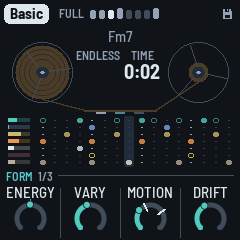
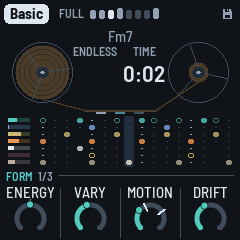
1.4.0: the tape's counter, the user's: its three lines evenly spaced (10 px each), the bars and time in M

Changed region(s): [[0.4958, 0.175, 0.7, 0.35], [0.2917, 0.175, 0.4958, 0.2625]]

diff --git a/firmware/src/app/ui.c b/firmware/src/app/ui.c
@@ -4279,20 +4279,21 @@ static void draw_tape(uint32_t now)
         const uint32_t b = en_bars / 16u;
         const int song = en_song_ph == EN_SG_INTRO || en_song_ph == EN_SG_MAIN || en_song_ph == EN_SG_OUTRO;
         const uint16_t tc = en_playing ? K_TEXT : K_DIM;
+        enum { TX_L = 95, TX_R = 144, TY_LBL = 20, TY_VAL = 39, TY_SUB = 65 };   /* (zzu, the user's: the three lines evenly spaced, the figures in M) */
         char t[12];
         if ((en_playing && !was) || (en_playing && b < last_b))
             t0 = now;                            /* (from PLAY; a Set's next piece, from its own start) */
         was = en_playing, last_b = b;
         if (en_playing)
             shown = (now - t0) / 1000u;
-        text_c(98, 24, &FONT_XS, song ? (en_song_ph == EN_SG_INTRO ? "INTRO" : en_song_ph == EN_SG_MAIN ? "MAIN" : "OUTRO")
+        text_c(TX_L, TY_LBL, &FONT_XS, song ? (en_song_ph == EN_SG_INTRO ? "INTRO" : en_song_ph == EN_SG_MAIN ? "MAIN" : "OUTRO")
                                       : en_song_ph == EN_SG_END ? "END" : "ENDLESS", K_DIM);   /* (TIME's colour) */
         if (song) {
             const uint32_t end = en_song_ph == EN_SG_INTRO ? en_song_b0 : en_song_ph == EN_SG_MAIN ? en_song_bo : en_song_be;
             const uint32_t left = end > b ? end - b : 0u;
             itoa_u(left, t);
-            text_c(98, 38, &FONT_C, t, tc);
-            text_c(98, 64, &FONT_XS, left == 1u ? "BAR" : "BARS", K_DIM);
+            text_c(TX_L, TY_VAL, &FONT_M, t, tc);
+            text_c(TX_L, TY_SUB, &FONT_XS, left == 1u ? "BAR" : "BARS", K_DIM);
         }
         {
             uint32_t k = 0, m = shown / 60u, sec = shown % 60u;
@@ -4301,8 +4302,8 @@ static void draw_tape(uint32_t now)
             while (c[k])
                 k++;
             c[k++] = ':', c[k++] = (char)('0' + sec / 10u), c[k++] = (char)('0' + sec % 10u), c[k] = 0;
-            text_c(142, 38, &FONT_C, c, tc);
-            text_c(142, 24, &FONT_XS, "TIME", K_DIM);
+            text_c(TX_R, TY_VAL, &FONT_M, c, tc);
+            text_c(TX_R, TY_LBL, &FONT_XS, "TIME", K_DIM);
             if (song && proj.par[P_TEMPO] > 0) {  /* (the song's whole length, at this tempo) */
                 const uint32_t tot = en_song_be * 240u / (uint32_t)proj.par[P_TEMPO];
                 k = 0;
@@ -4311,7 +4312,7 @@ static void draw_tape(uint32_t now)
                 while (c[k])
                     k++;
                 c[k++] = ':', c[k++] = (char)('0' + tot % 60u / 10u), c[k++] = (char)('0' + tot % 10u), c[k] = 0;
-                text_c(142, 64, &FONT_XS, c, K_DIM);
+                text_c(TX_R, TY_SUB, &FONT_XS, c, K_DIM);
             }
         }
     }
